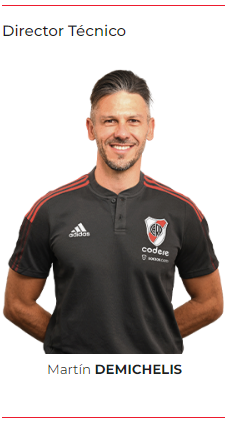
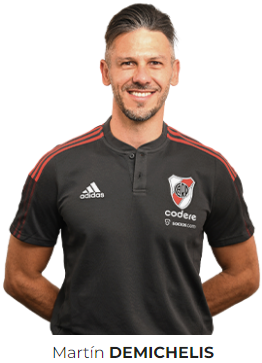
arreglos en plantel

diff --git a/pages/plantel.html b/pages/plantel.html
@@ -9,7 +9,7 @@
     <link rel="stylesheet" href="../css/style.css">
     <title>Plantel - River Plate</title>
 </head>
-<body>
+<body class="plantel">
     <div class="collapse" id="navbarToggleExternalContent">
         <div class="colorNavbar p-4">
             <ul>
@@ -35,35 +35,267 @@
         <h1 class="text-white">CLUB ATLETICO RIVER PLATE</h1>
     </section>
     <main>
+        <h2 class="text-white">ARQUEROS</h2>
+            <section class="container-fluid">
+                <div class="row">
+                    <div class="col-lg-2">
+                        <div class="card" style="width: 18rem;">
+                            <img src="../img/plantel/armani.png" class="card-img-top" alt="arqueros">
+                            <div class="card-body">
+                            <p class="card-text text-center">FRANCO ARMANI</p>
+                            </div>
+                        </div>
+                    </div>
+                    <div class="col-lg-2">
+                        <div class="card" style="width: 18rem;">
+                            <img src="../img/plantel/petroli.png" class="card-img-top" alt="arqueros">
+                            <div class="card-body">
+                            <p class="card-text text-center">FRANCO PETROLI</p>
+                            </div>
+                        </div>
+                    </div>
+                    <div class="col-lg-2">
+                        <div class="card" style="width: 18rem;">
+                            <img src="../img/plantel/centurion.png" class="card-img-top" alt="arqueros">
+                            <div class="card-body">
+                            <p class="card-text text-center">EZEQUIEL CENTURION</p>
+                            </div>
+                        </div>
+                    </div>
+                </div>
+            </section>
+        <h2 class="text-white">DEFENSORES</h2>
+            <section class="container-fluid">
+                <div class="row">
+                    <div class="col-lg-2">
+                        <div class="card" style="width: 18rem;">
+                            <img src="../img/plantel/rojas.png" class="card-img-top" alt="DEFENSORES">
+                            <div class="card-body">
+                            <p class="card-text text-center">ROBERT ROJAS</p>
+                            </div>
+                        </div>
+                    </div>
+                    <div class="col-lg-2">
+                        <div class="card" style="width: 18rem;">
+                            <img src="../img/plantel/maidana.png" class="card-img-top" alt="DEFENSORES">
+                            <div class="card-body">
+                            <p class="card-text text-center">JONATHAN MAIDANA</p>
+                            </div>
+                        </div>
+                    </div>
+                    <div class="col-lg-2">
+                        <div class="card" style="width: 18rem;">
+                            <img src="../img/plantel/martinez.png" class="card-img-top" alt="DEFENSORES">
+                            <div class="card-body">
+                            <p class="card-text text-center">DAVID MARTINEZ</p>
+                            </div>
+                        </div>
+                    </div>
+                </div>
+                <div class="row">
+                    <div class="col-lg-2">
+                        <div class="card" style="width: 18rem;">
+                            <img src="../img/plantel/pirez.png" class="card-img-top" alt="DEFENSORES">
+                            <div class="card-body">
+                            <p class="card-text text-center">LEANDRO GONZALEZ PIREZ</p>
+                            </div>
+                        </div>
+                    </div>
+                    <div class="col-lg-2">
+                        <div class="card" style="width: 18rem;">
+                            <img src="../img/plantel/defensaherrera.png" class="card-img-top" alt="DEFENSORES">
+                            <div class="card-body">
+                            <p class="card-text text-center">MARCELO ANDRES HERRERA</p>
+                            </div>
+                        </div>
+                    </div>
+                    <div class="col-lg-2">
+                        <div class="card" style="width: 18rem;">
+                            <img src="../img/plantel/defensadiaz.png" class="card-img-top" alt="DEFENSORES">
+                            <div class="card-body">
+                            <p class="card-text text-center">PAULO DIAZ</p>
+                            </div>
+                        </div>
+                    </div>
+                </div>
+                <div class="row">
+                    <div class="col-lg-2">
+                        <div class="card" style="width: 18rem;">
+                            <img src="../img/plantel/defensacasco.png" class="card-img-top" alt="DEFENSORES">
+                            <div class="card-body">
+                            <p class="card-text text-center">MILTON CASCO</p>
+                            </div>
+                        </div>
+                    </div>
+                    <div class="col-lg-2">
+                        <div class="card" style="width: 18rem;">
+                            <img src="../img/plantel/defensamammana.png" class="card-img-top" alt="DEFENSORES">
+                            <div class="card-body">
+                            <p class="card-text text-center">EMANUEL MAMMANA</p>
+                            </div>
+                        </div>
+                    </div>
+                    <div class="col-lg-2">
+                        <div class="card" style="width: 18rem;">
+                            <img src="../img/plantel/defensagomez.png" class="card-img-top" alt="DEFENSORES">
+                            <div class="card-body">
+                            <p class="card-text text-center">ELIAS GOMEZ</p>
+                            </div>
+                        </div>
+                    </div>
+                </div>
+            </section>
+        <h2 class="text-white">MEDIOCAMPISTAS</h2>
         <section class="container-fluid">
-            <h2>ARQUEROS</h2>
             <div class="row">
-                <div class="col-lg-12"><img src="../img/arqueros.png" alt="arco"></div>
-            </div>
-            <h2>DEFENSORES</h2>
-            <div class="row">
-                <div class="col-lg-12"><img src="../img/defensores1.png" alt="defensa"></div>
-                <div><img src="../img/eliasgomez.png" alt="defensa"></div>
-            </div>
-            <h2>MEDIOCAMPISTAS</h2>
-            <div class="row">
-                <div class="col-lg-12"><img src="../img/mediocampo1.png" alt="mediocampo"></div>
-            </div>
-            <div class="row">
-                <div class="col-lg-12">
-                    <img src="../img/mediocampo2.png" alt="mediocampo">
+                <div class="col-lg-2">
+                    <div class="card" style="width: 18rem;">
+                        <img src="../img/plantel/mediozuculini.png" class="card-img-top" alt="MEDIOCAMPO">
+                        <div class="card-body">
+                        <p class="card-text text-center">BRUNO ZUCULINI</p>
+                        </div>
+                    </div>
+                </div>
+                <div class="col-lg-2">
+                    <div class="card" style="width: 18rem;">
+                        <img src="../img/plantel/mediopala.png" class="card-img-top" alt="MEDIOCAMPO">
+                        <div class="card-body">
+                        <p class="card-text text-center">AGUSTIN PALAVECINO</p>
+                        </div>
+                    </div>
+                </div>
+                <div class="col-lg-2">
+                    <div class="card" style="width: 18rem;">
+                        <img src="../img/plantel/mediojuanfer.png" class="card-img-top" alt="MEDIOCAMPO">
+                        <div class="card-body">
+                        <p class="card-text text-center">JUAN FERNANDO QUINTERO</p>
+                        </div>
+                    </div>
                 </div>
             </div>
-            <h2>DELANTEROS</h2>
-            <div class="row">
-                <div class="col-lg-12"><img src="../img/delanteros.png" alt="delanteros"></div>
-            </div>
-            <div><img src="../img/londoño.png" alt="delanteros"></div>
-            <h2>DIRECTOR TECNICO</h2>
-            <div><img src="../img/demichelis.png" alt="directorTecnico"></div>
-
+                <div class="row">
+                    <div class="col-lg-2">
+                        <div class="card" style="width: 18rem;">
+                            <img src="../img/plantel/mediodelacruz.png" class="card-img-top" alt="MEDIOCAMPO">
+                            <div class="card-body">
+                            <p class="card-text text-center">NICOLAS DE LA CRUZ</p>
+                            </div>
+                        </div>
+                    </div>
+                    <div class="col-lg-2">
+                        <div class="card" style="width: 18rem;">
+                            <img src="../img/plantel/mediobarco.png" class="card-img-top" alt="MEDIOCAMPO">
+                            <div class="card-body">
+                            <p class="card-text text-center">ESEQUIEL BARCO</p>
+                            </div>
+                        </div>
+                    </div>
+                    <div class="col-lg-2">
+                        <div class="card" style="width: 18rem;">
+                            <img src="../img/plantel/mediokranevitter.png" class="card-img-top" alt="MEDIOCAMPO">
+                            <div class="card-body">
+                            <p class="card-text text-center">MATIAS KRANEVITTER</p>
+                            </div>
+                        </div>
+                    </div>
+                </div>
+                    <div class="row">
+                        <div class="col-lg-2">
+                            <div class="card" style="width: 18rem;">
+                                <img src="../img/plantel/medioenzo.png" class="card-img-top" alt="MEDIOCAMPO">
+                                <div class="card-body">
+                                <p class="card-text text-center">ENZO PEREZ</p>
+                                </div>
+                            </div>
+                        </div>
+                        <div class="col-lg-2">
+                            <div class="card" style="width: 18rem;">
+                                <img src="../img/plantel/medionacho.png" class="card-img-top" alt="MEDIOCAMPO">
+                                <div class="card-body">
+                                <p class="card-text text-center">IGNACIO FERNANDEZ</p>
+                                </div>
+                            </div>
+                        </div>
+                        <div class="col-lg-2">
+                            <div class="card" style="width: 18rem;">
+                                <img src="../img/plantel/mediosimon.png" class="card-img-top" alt="MEDIOCAMPO">
+                                <div class="card-body">
+                                <p class="card-text text-center">SANTIAGO SIMON</p>
+                                </div>
+                            </div>
+                        </div>
+                    </div>
+                    <div class="row">
+                        <div class="col-lg-2">
+                            <div class="card" style="width: 18rem;">
+                                <img src="../img/plantel/medioparadela.png" class="card-img-top" alt="MEDIOCAMPO">
+                                <div class="card-body">
+                                <p class="card-text text-center">JOSE PARADELA</p>
+                                </div>
+                            </div>
+                        </div>
+                    </div>
         </section>
-
+        <h2 class="text-white">DELANTEROS</h2>
+                <section class="container-fluid">
+                    <div class="row">
+                        <div class="col-lg-2">
+                            <div class="card" style="width: 18rem;">
+                                <img src="../img/plantel/delsuarez.png" class="card-img-top" alt="DELANTEROS">
+                                <div class="card-body">
+                                <p class="card-text text-center">MATIAS SUAREZ</p>
+                                </div>
+                            </div>
+                        </div>
+                        <div class="col-lg-2">
+                            <div class="card" style="width: 18rem;">
+                                <img src="../img/plantel/delborja.png" class="card-img-top" alt="DELANTEROS">
+                                <div class="card-body">
+                                <p class="card-text text-center">MIGUEL BORJA</p>
+                                </div>
+                            </div>
+                        </div>
+                        <div class="col-lg-2">
+                            <div class="card" style="width: 18rem;">
+                                <img src="../img/plantel/delsolari.png" class="card-img-top" alt="DELANTEROS">
+                                <div class="card-body">
+                                <p class="card-text text-center">PABLO SOLARI</p>
+                                </div>
+                            </div>
+                        </div>
+                    </div>
+                    <div class="row">
+                        <div class="col-lg-2">
+                            <div class="card" style="width: 18rem;">
+                                <img src="../img/plantel/delbeltran.png" class="card-img-top" alt="DELANTEROS">
+                                <div class="card-body">
+                                <p class="card-text text-center">LUCAS BELTRAN</p>
+                                </div>
+                            </div>
+                        </div>
+                        <div class="col-lg-2">
+                            <div class="card" style="width: 18rem;">
+                                <img src="../img/plantel/dellondoño.png" class="card-img-top" alt="DELANTEROS">
+                                <div class="card-body">
+                                <p class="card-text text-center">FLABIAN LONDOÑO</p>
+                                </div>
+                            </div>
+                        </div>
+                    </div>
+        </section>
+        <h2 class="text-white">DIRECTOR TECNICO</h2>
+        <section class="container fluid">
+            <div class="row">
+                <div class="col-lg-2">
+                    <div class="card" style="width: 18rem;">
+                        <img src="../img/demichelis.png" class="card-img-top" alt="DT">
+                        <div class="card-body">
+                        <p class="card-text text-center">MARTIN DEMICHELIS</p>
+                        </div>
+                    </div>
+                </div>
+            </div> 
+        </section>
     </main>
 
     <footer>

diff --git a/pages/museo.html b/pages/museo.html
@@ -99,7 +99,7 @@
                         <div class="card-body">
                         <p class="card-text text-center">Abajo tenemos mas trofeos y un sector dedicado la copa eterna, ganada a Boca Juniors en el Santiago Bernabeu</p>
                         </div>
-                        </div>
+                    </div>
                 </div>
                 <div class="col-lg-4">
                     <div class="card" style="width: 18rem;">

diff --git a/css/style.css b/css/style.css
@@ -86,6 +86,10 @@ a {
   background-size: 100%;
 }
 
+.plantel {
+  background-color: black;
+}
+
 .imgHistoria {
   font-size: 50px;
 } /*# sourceMappingURL=style.css.map *//*# sourceMappingURL=style.css.map */

diff --git a/sass/style.scss b/sass/style.scss
@@ -86,6 +86,11 @@ a {
   background-size: 100%;
 }
 
+.plantel{
+background-color: black;
+}
+
+
 .imgHistoria {
   font-size: 50px;
 }/*# sourceMappingURL=style.css.map */
